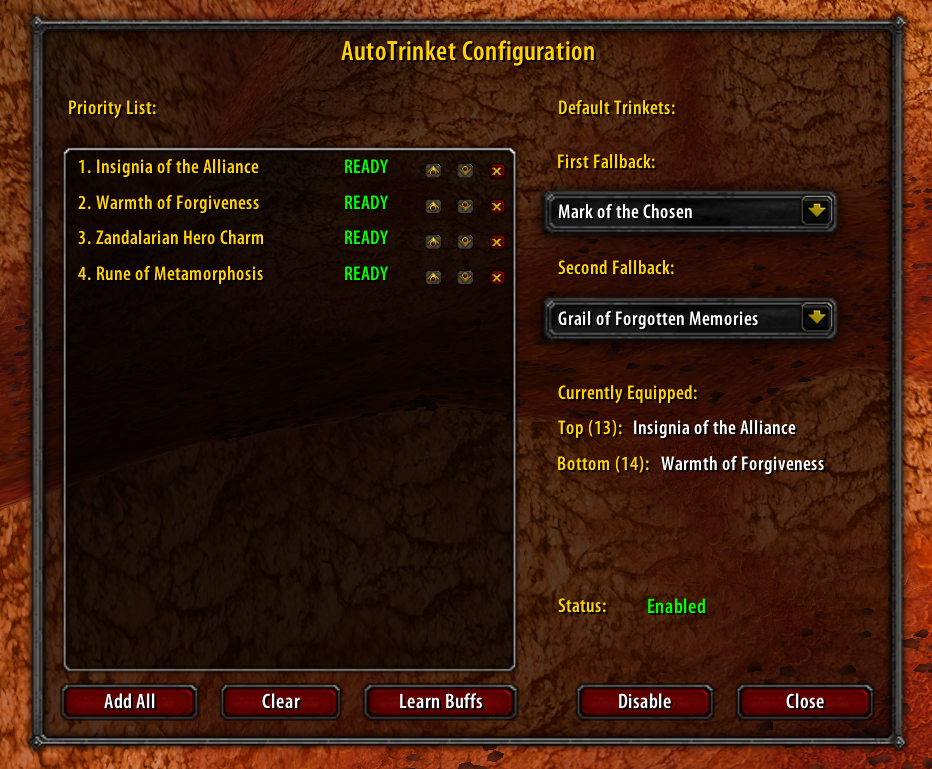
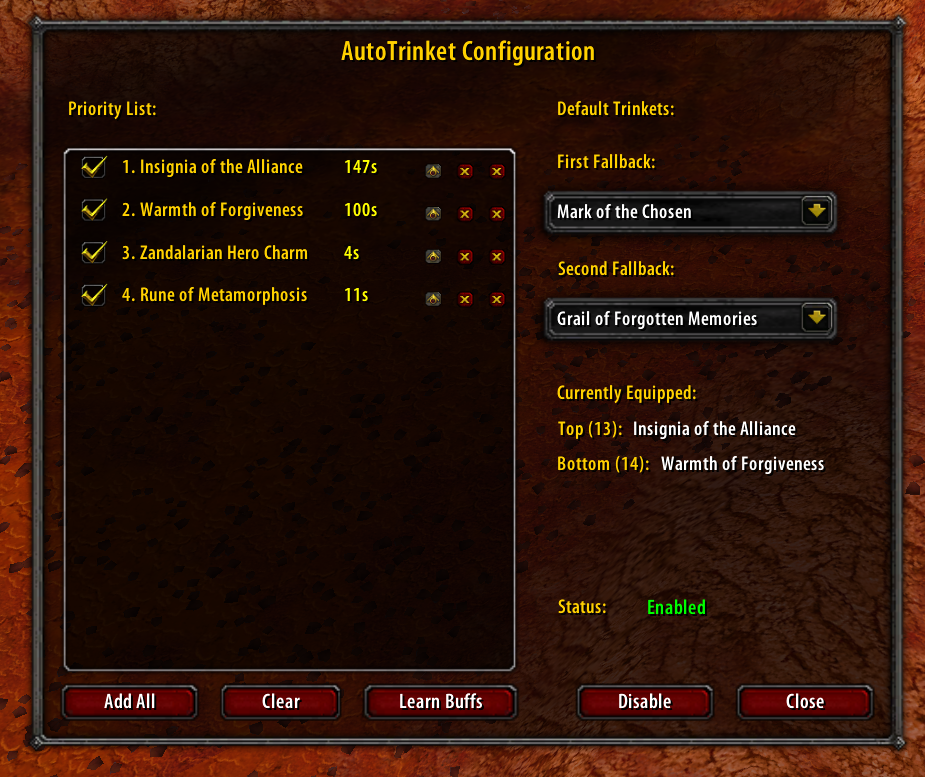
Add files via upload

diff --git a/README.md b/README.md
@@ -1,12 +1,13 @@
 # AutoTrinket
 
-**AutoTrinket** is a powerful, priority-based trinket manager for World of Warcraft 1.12+. It automatically equips your best available trinkets based on a single unified priority list, ensuring you always have your most powerful cooldowns ready to use.
+**AutoTrinket** is a powerful, priority-based trinket manager for World of Warcraft Classic. It automatically equips your best available trinkets based on a single unified priority list, ensuring you always have your most powerful cooldowns ready to use.
 
 ## Key Features
 
 - **Unified Priority System**: Maintain a single list of trinkets. The addon automatically manages both trinket slots (13 & 14).
 - **Auto-Equip Logic**: The top 2 trinkets that are **off cooldown** are ALWAYS equipped.
 - **Smart Swapping**: As soon as a high-priority trinket comes off cooldown, it gets swapped in.
+- **Auto Use Command**: Logic to intelligently use your equipped items with `/autotrinket use`.
 - **Buff Protection**: Prevents swapping out a trinket while its active buff (e.g., *Earthstrike*, *Kiss of the Spider*) is still running on you.
 - **Fallback Mode**: Sets specific "Default" (passive) trinkets to equip when all your active trinkets are on cooldown.
 - **Safety Checks**: Swaps only occur when you are out of combat, alive, and not casting or mounted.
@@ -28,6 +29,9 @@ Open the visual configuration window:
 - **Order Matters**: Use the Arrow buttons next to each trinket to define your preferred order.
   - *Top of list = Highest Priority (Equipped as soon as ready)*
   - *Bottom of list = Lowest Priority*
+- **Auto-Use Checkbox**:
+  - **Check [x]**: This trinket WILL be used when you type `/autotrinket use`.
+  - **Uncheck [ ]**: This trinket will NEVER be used by the command (useful for passive trinkets you want equipped but not popped).
 
 ### 3. Set Default Fallbacks (Optional)
 When all your high-priority active trinkets are on cooldown, the addon will equip your fallback trinkets (usually passive stats).
@@ -46,7 +50,7 @@ To ensure the addon doesn't unequip a trinket while you are still enjoying its b
 
 *Note: You only need to do this once per trinket. The addon saves this data permanently.*
 
-![Learn Buffs Process](learnbuff.png)
+![Learn Buffs Process](lernbuff.png)
 
 ### 5. Enable
 Click **Enable** in the config window or type:
@@ -62,6 +66,7 @@ All configuration is done via the visual UI, and very simple chat commands:
 
 | Command | Action |
 | :--- | :--- |
+| `/autotrinket use` | **Uses** the highest priority *equipped* trinket that is ready and checked in your list. |
 | `/autotrinket config` | Opens the Configuration GUI. |
 | `/autotrinket` | Toggles the addon On (Enabled) or Off (Disabled). |
 | `/autotrinket help` | Shows the available commands. |
@@ -72,11 +77,10 @@ All configuration is done via the visual UI, and very simple chat commands:
 
 ## Tips
 
+- **Macro Usage**: Create a macro `/autotrinket use` (or `/at use`) and drag it to your action bar. Spam it! It will intelligently use your best ready trinket.
 - **Dual Slot Learning**: The "Learn Buffs" mode uses both trinket slots to speed up the process. Pay attention to whether it asks you to use the **Top** or **Bottom** trinket.
 - **Overwriting**: If a trinket was learned incorrectly, simply run "Learn Buffs" again to overwrite the old data.
 - **Combat Safety**: The addon will pause all swapping operations while you are in combat to prevent errors. Queued swaps will execute immediately after combat ends.
 
 ---
 *Created for efficient raiding and seamless cooldown rotations.*
-
-
